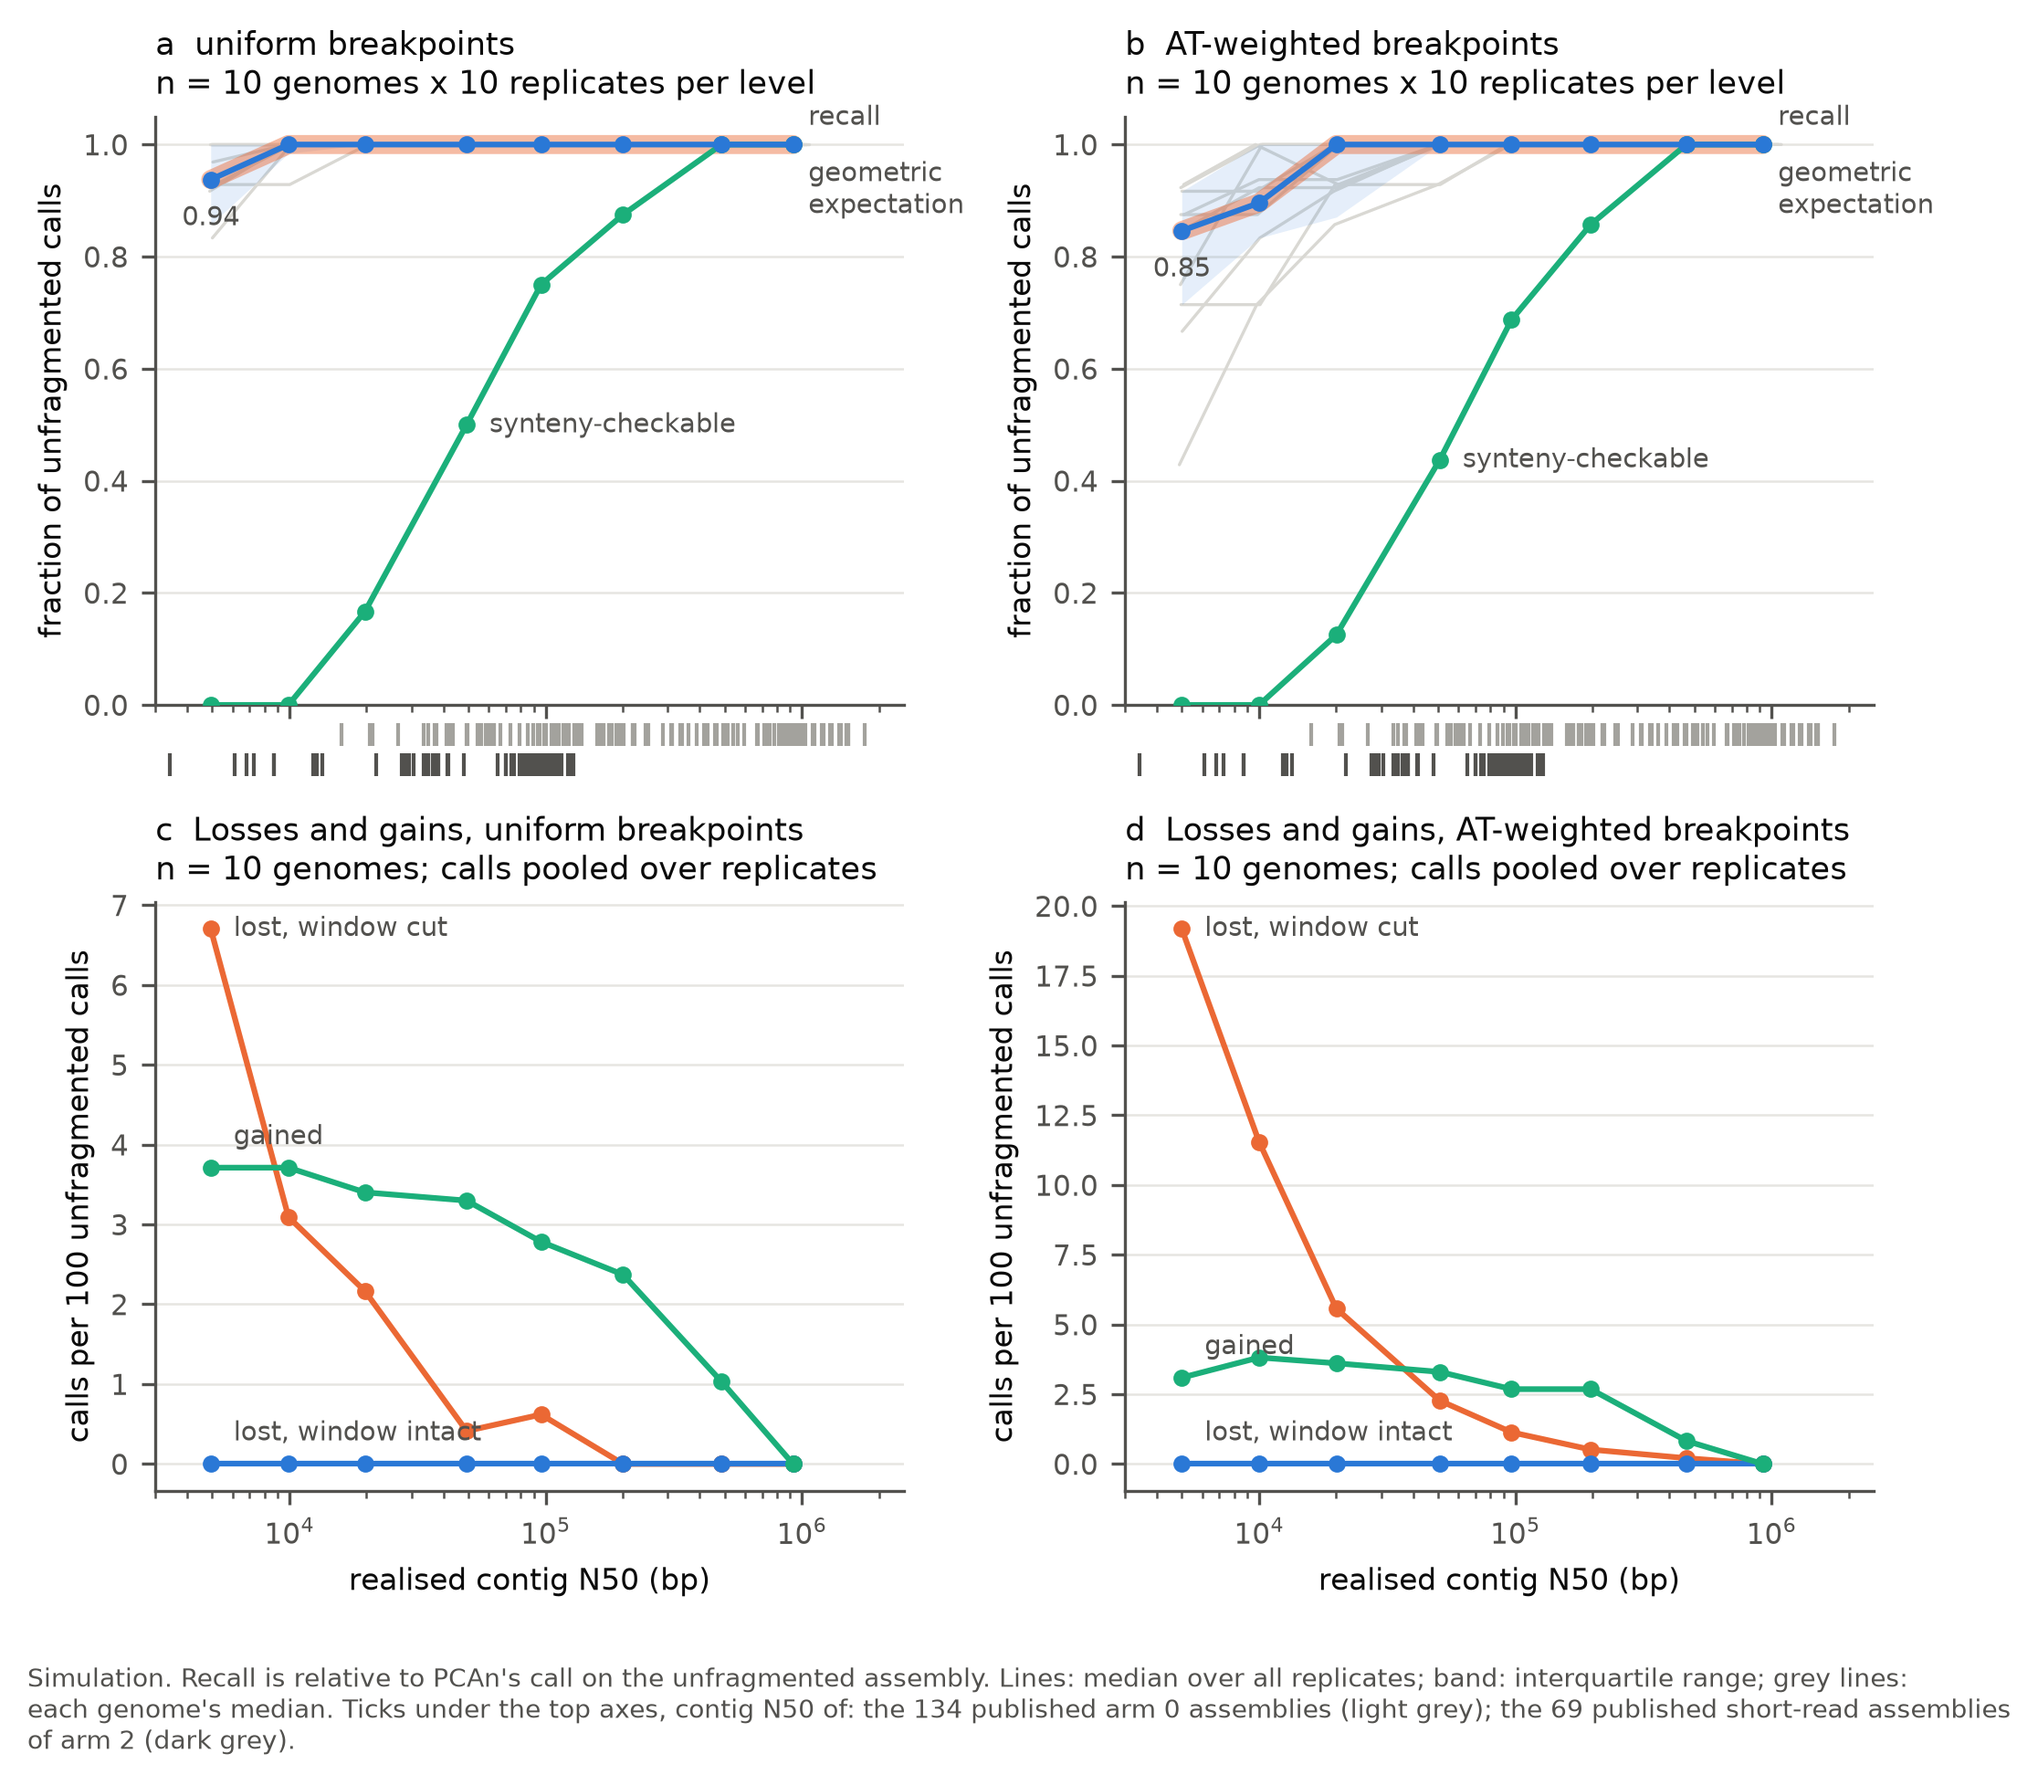
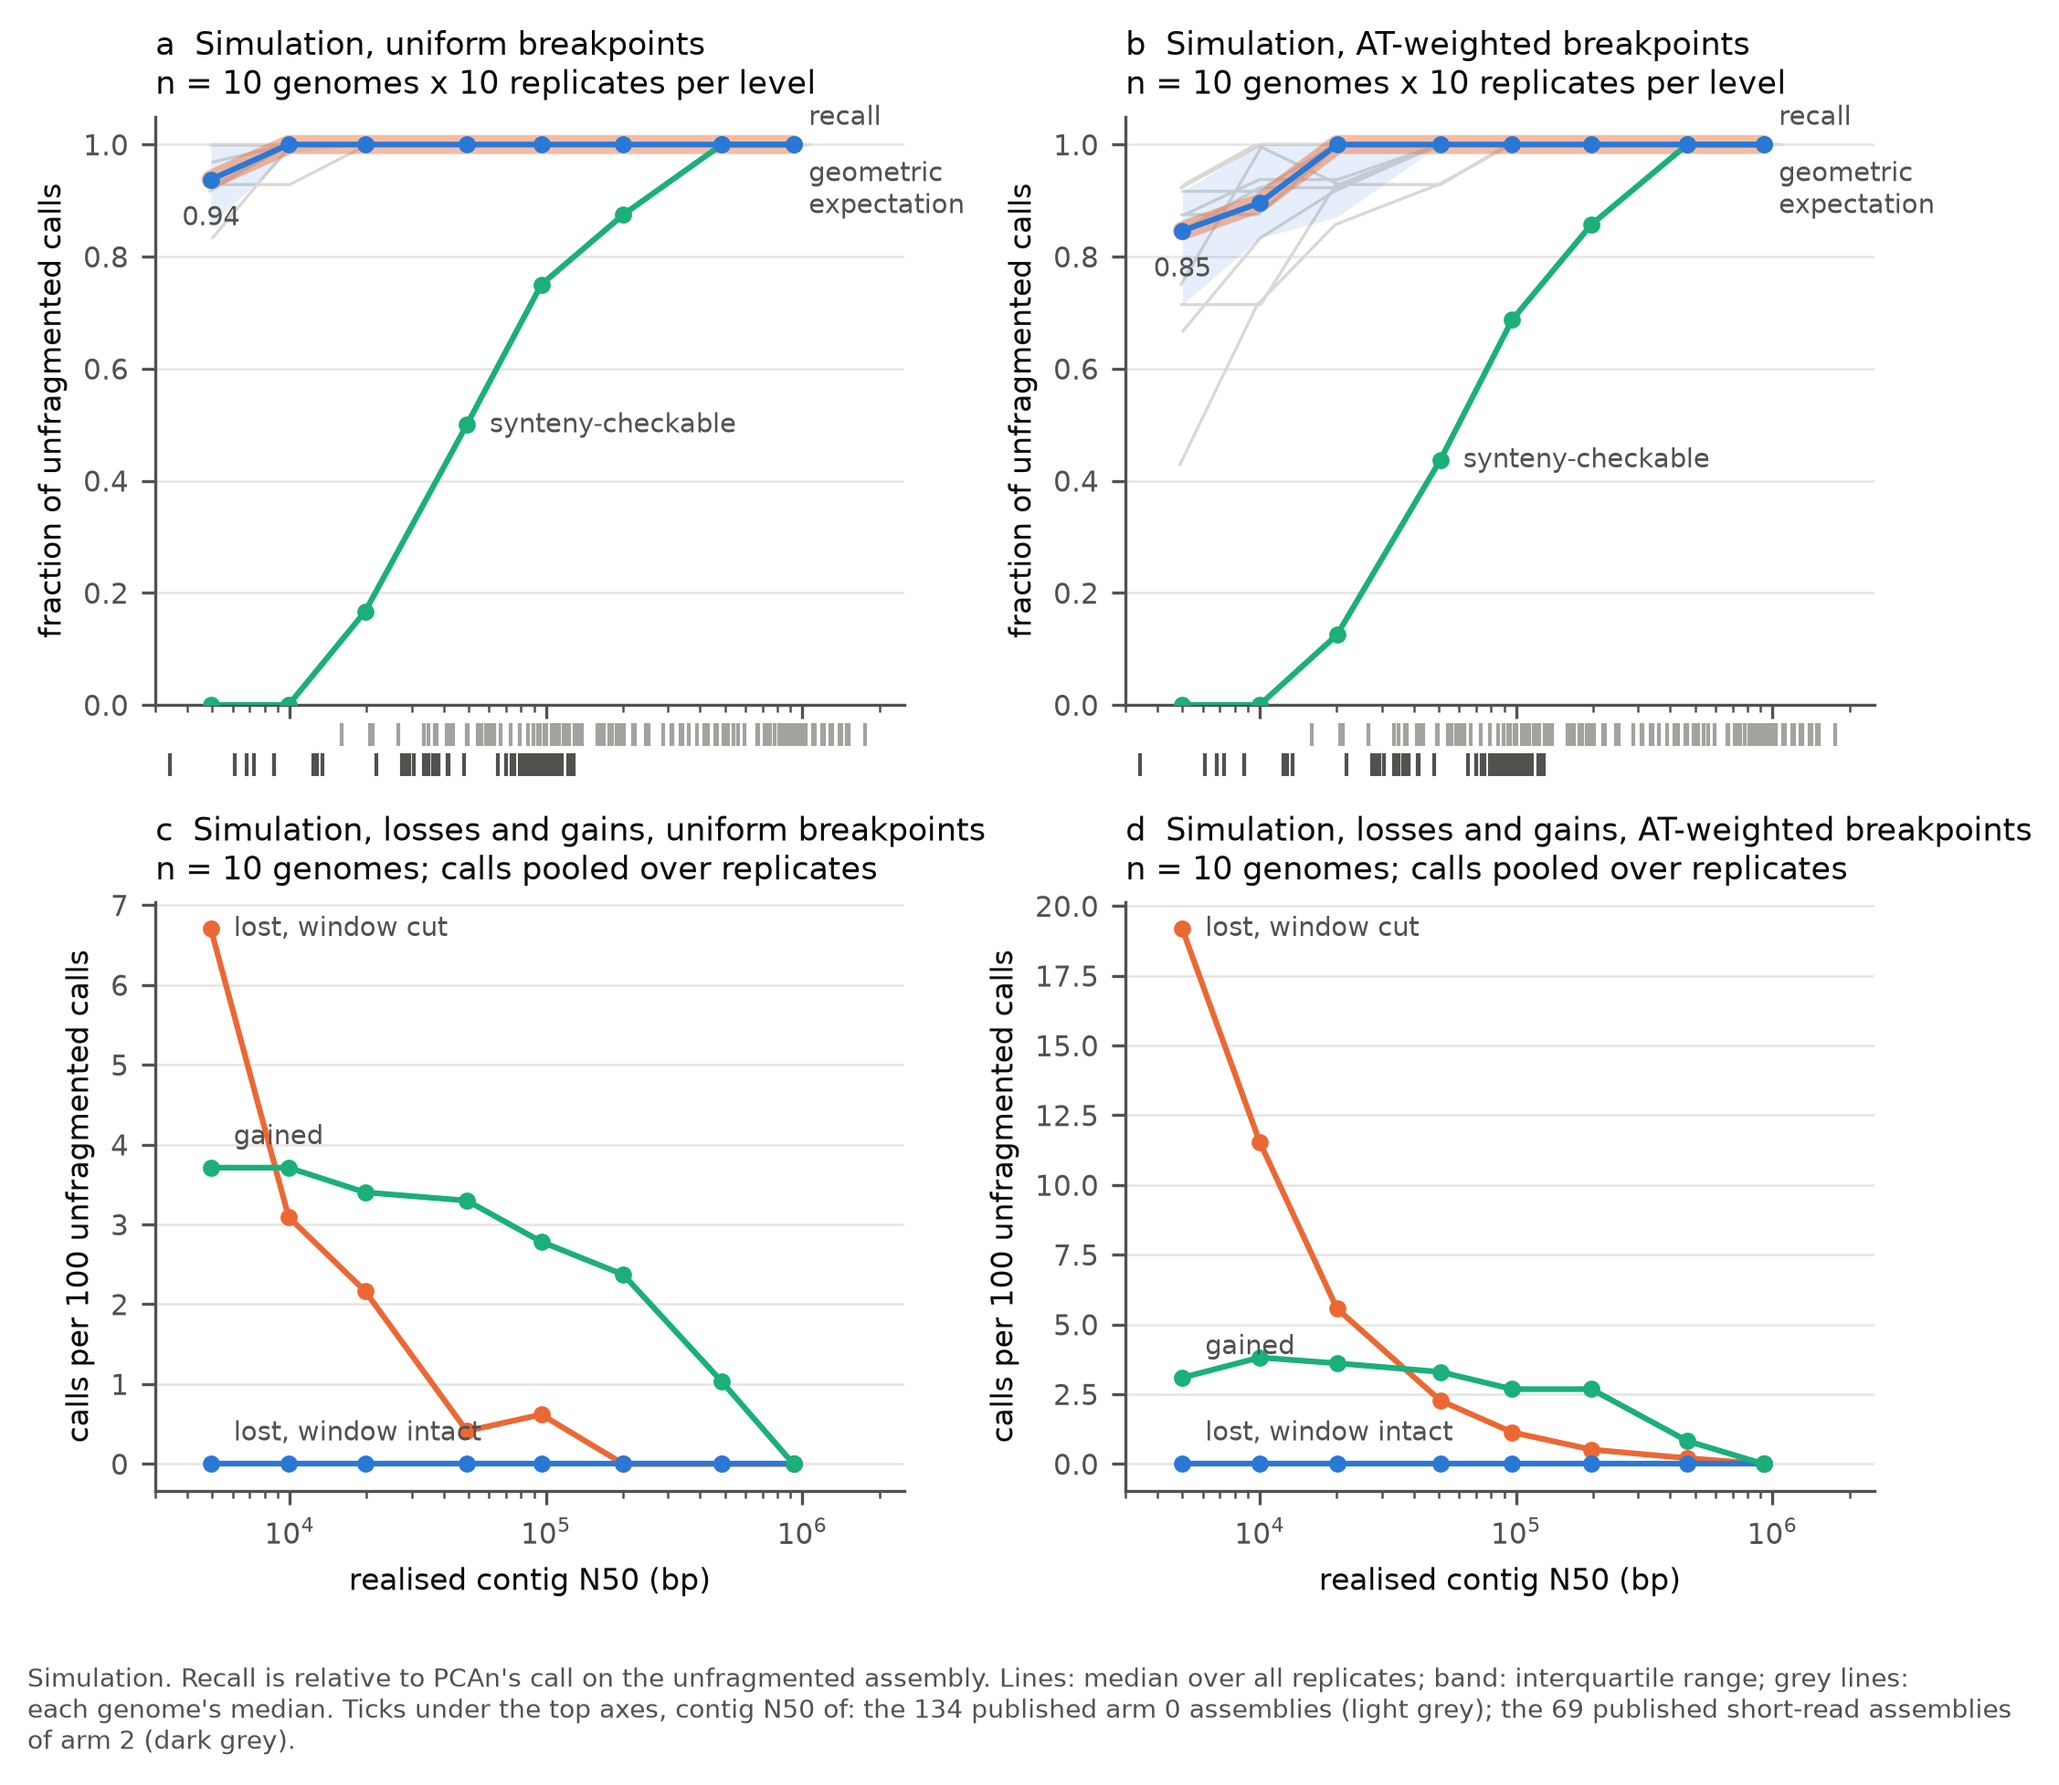
label_simulation_figures

diff --git a/scripts/13_figures.py b/scripts/13_figures.py
@@ -173,7 +173,7 @@ def fig_arm1a():
         ax.set_xlim(3000, 2.5e6)
         ax.set_ylim(0, 1.05)
         ax.set_ylabel("fraction of unfragmented calls")
-        ax.set_title("%s  %s\nn = %d genomes x %d replicates per level" % ("ab"[col], title, n_gen, n_rep),
+        ax.set_title("%s  Simulation, %s\nn = %d genomes x %d replicates per level" % ("ab"[col], title, n_gen, n_rep),
                      loc="left")
 
         ax = axes[1, col]
@@ -192,8 +192,8 @@ def fig_arm1a():
         ax.set_xlim(3000, 2.5e6)
         ax.set_xlabel("realised contig N50 (bp)")
         ax.set_ylabel("calls per 100 unfragmented calls")
-        ax.set_title("%s  Losses and gains, %s\nn = %d genomes; calls pooled over replicates" % ("cd"[col], title, n_gen),
-                     loc="left")
+        ax.set_title("%s  Simulation, losses and gains, %s\nn = %d genomes; calls pooled over replicates"
+                     % ("cd"[col], title, n_gen), loc="left")
     ticks = ["the %d published arm 0 assemblies (light grey)" % (len(stats0) if stats0 is not None else 0)]
     if stats2 is not None:
         ticks.append("the %d published short-read assemblies of arm 2 (dark grey)" % len(stats2))
